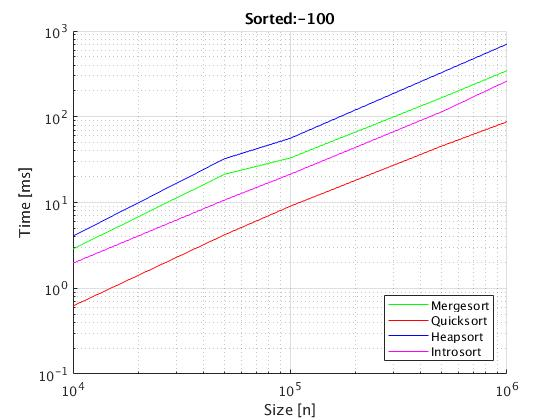
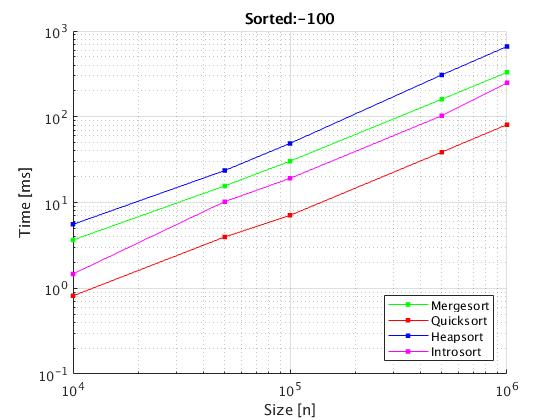
Project2: Readme

diff --git a/project2/analysis/plot_an.m b/project2/analysis/plot_an.m
@@ -1,8 +1,7 @@
-%Read
+
 clear all;
 close all;
 
-clc;
 
 TESTS  = 100;
 SIZE   =[10000, 50000, 100000, 500000, 1000000];

diff --git a/project2/Readme.md b/project2/Readme.md
@@ -9,6 +9,12 @@ Zostały zaimplementowane algorytmy:
 *  Heapsort
 *  Introsort
 
+####  Struktura
+
+Przedstawia sobą tablicę wskaźników na elementy do przechowywania, opisana jest klasą "Table". Jest szablonem, więc pozwala przechowywać róźne typy elementów.
+
+Ponieważ kompilacja programu przeprowadzana jest częściami(plik "makefile"), typy możliwe typy danych muszą być zdefiniowane przed kompilacją programu, umiszczone na końcach plików .h.
+
 ####  Mergesort
 
 Złożoność: 	 |   Przypadek
@@ -16,12 +22,18 @@ Złożoność: 	 |   Przypadek
 O(n log n)   | średni
 O(n log n)   | najgorszy
 
+Algorytm zaimplementowany za pomocą struktury pomocniczej, która przechowuje tablice wskaźników. Ogólnie taki typ sortowania wymaga tablice pomocniczą co najmniej o takim samym rozmiarze. W tej implementacji na początku tablica początkowa jest kopiowana, dla tego pamięci zużywa się 2 razy więcej.
+
 ####  Quicksort
 
 Złożoność: 	 |   Przypadek
 ------------ | -------------
 O(n log n)   | średni
-O(n^2)   | najgorszy
+Θ(n^2)   | najgorszy
+
+Najszybszy algorytm sortowania, co prawda szybkość sortowania zależy od danych początkowych, zaimplementowany za pomocą metod Klasy "Table".
+
+Szybkość działania algorytmu przede wszystkim zależy od wyboru pivota. W tym przypadku piwotem jest element znajdujący się na środku tablicy sortowanej.
 
 ####  Heapsort
 
@@ -30,6 +42,8 @@ Złożoność: 	 |   Przypadek
 O(n log n)   | średni
 O(n log n)   | najgorszy
 
+Jedno z najprostrzych sortowań, buduje kopiec typu max w niejawny sposób a następnie wyrzuca największy element z korzenia drzewa na koniec.
+
 ####  Introsort
 
 Złożoność: 	 |   Przypadek
@@ -37,32 +51,52 @@ Złożoność: 	 |   Przypadek
 O(n log n)   | średni
 O(n log n)   | najgorszy
 
+Algorytm używa do sortowania zmodyfikowaną metodę Quicksort i przechodzi na Heapsort po przekroczeniu głębi rekursji liczby log(n).
 
 ## Testy
 * Wszystkie elementy posortowane:
+
   ![Test 0](https://github.com/221349/PAMSI/blob/master/project2/analysis/sorted_0.jpg)
 
 * 25% początkowych elementów posortowanych:
+
   ![Test 0](https://github.com/221349/PAMSI/blob/master/project2/analysis/sorted_25.jpg)
 
 * 50% początkowych elementów posortowanych:
+
   ![Test 0](https://github.com/221349/PAMSI/blob/master/project2/analysis/sorted_50.jpg)
 
 * 75% początkowych elementów posortowanych:
+
   ![Test 0](https://github.com/221349/PAMSI/blob/master/project2/analysis/sorted_75.jpg)
 
 * 95% początkowych elementów posortowanych:
+
   ![Test 0](https://github.com/221349/PAMSI/blob/master/project2/analysis/sorted_95.jpg)
 
 * 99% początkowych elementów posortowanych:
+
   ![Test 0](https://github.com/221349/PAMSI/blob/master/project2/analysis/sorted_99.jpg)
 
 * 99.7% początkowych elementów posortowanych:
+
   ![Test 0](https://github.com/221349/PAMSI/blob/master/project2/analysis/sorted_99.7.jpg)
 
 * Wszystkie posortowane odwrotnie:
+
   ![Test 0](https://github.com/221349/PAMSI/blob/master/project2/analysis/sorted_-100.jpg)
 
+Z przeprowadzonych testów wynika, że naszybszym algorytmem głównie jest Quicksort, natychmiast najwolniejszym jest Heapsort.
+
+## Pliki
+
+* makefile - instrukcja do kompilatora
+
+* sort.out - skompilowany programu
+
+* test.sh - plik testów
+
+* analysis - skrypt do Matlaba dla generowania wykresów
 
 ## Błędy
 
